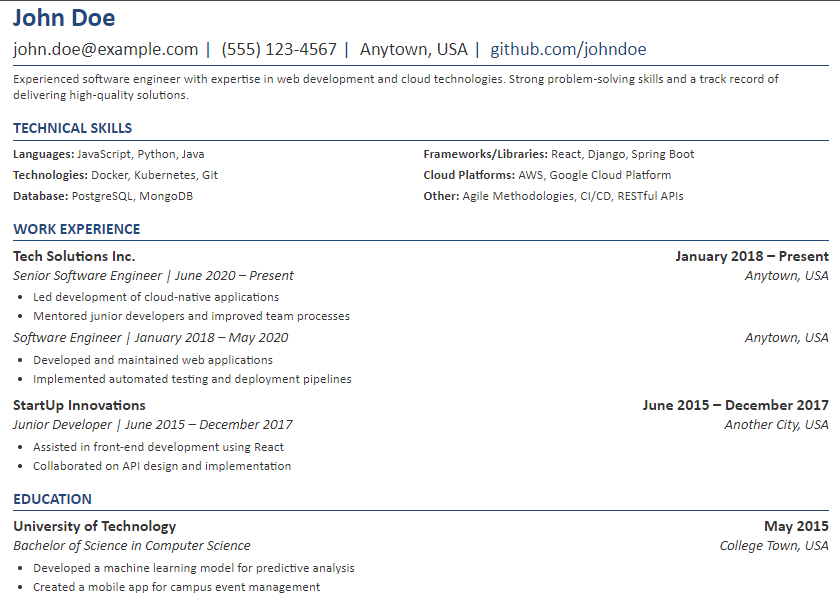
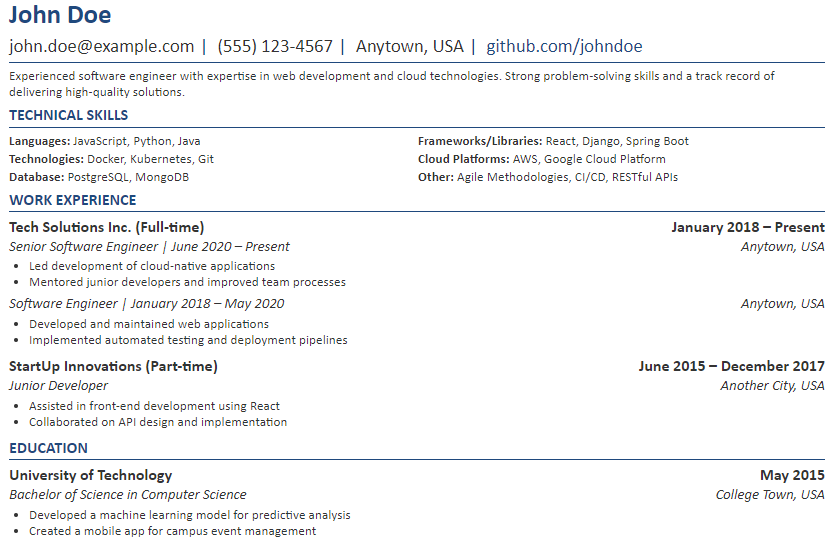
Adds employment type and spacing fixes

diff --git a/templates/resume_template.html b/templates/resume_template.html
@@ -27,7 +27,7 @@
             color: #1F497D;
             font-size: 12pt;
             border-bottom: 1px solid #1F497D;
-            margin: 15px 0 5px 0;
+            margin: 5px 0 5px 0;
             padding-bottom: 2px;
         }
         .contact-info {
@@ -40,7 +40,7 @@
             color: #1F497D;
         }
         .section {
-            margin-bottom: 10px;
+            margin-bottom: 5px;
         }
         .job {
             margin-bottom: 8px;
@@ -59,11 +59,11 @@
             font-size: 11pt;
         }
         ul {
-            margin: 5px 0;
+            margin: 3px 0 5px 0;
             padding-left: 20px;
         }
         li {
-            margin-bottom: 3px;
+            margin-bottom: 0px;
         }
         a {
             color: #1F497D;
@@ -72,7 +72,7 @@
         .skills-grid {
             display: grid;
             grid-template-columns: repeat(2, 1fr);
-            gap: 5px;
+            gap: 2px;
             margin-top: 5px;
         }
         .skills-category {
@@ -120,7 +120,7 @@
     {% for job in work_experience %}
     <div class="job">
         <div class="job-header">
-            <span>{{ job.company }}</span>
+            <span>{{ job.company }}{% if job.employment_type %} ({{ job.employment_type }}){% endif %}</span>
             <span>{{ job.start_date|format_date }} – {{ job.end_date|format_date }}</span>
         </div>
         {% for position in job.positions %}

diff --git a/scripts/generate_cover_letter.py b/scripts/generate_cover_letter.py
@@ -18,8 +18,17 @@ from src.models.cover_letter import CoverLetter
 from src.models.resume import PersonalInfo
 
 def load_yaml(file_path):
-    with open(file_path, 'r') as file:
-        return yaml.safe_load(file)
+    try:
+        with open(file_path, 'r') as file:
+            content = file.read().splitlines()
+            return yaml.safe_load('\n'.join(content))
+    except yaml.YAMLError as e:
+        print(f"Error parsing YAML file {file_path}: {e}")
+        if hasattr(e, 'problem_mark'):
+            mark = e.problem_mark
+            print(f"Error position: line {mark.line + 1}, column {mark.column + 1}")
+            print(f"Problematic line: {content[mark.line]}")
+        return None
 
 def get_most_recent_yaml(directory):
     yaml_files = list(Path(directory).glob('*.yaml'))
@@ -33,8 +42,8 @@ def main():
     parser.add_argument("-o", "--output", help="Path to the output HTML file")
     parser.add_argument("-t", "--template", default="templates/cover_letter_template.html", 
                         help="Path to the HTML template file")
-    parser.add_argument("-m", "--master", default="data/resumes/master.yaml",
-                        help="Path to the master resume YAML file")
+    parser.add_argument("-m", "--main", default="data/resumes/main.yaml",
+                        help="Path to the main resume YAML file")
     args = parser.parse_args()
 
     # If no input file is specified, use the most recent YAML file
@@ -48,9 +57,9 @@ def main():
         print(f"Error: Input file '{args.input}' does not exist.")
         return
 
-    # Ensure the master resume file exists
-    if not os.path.isfile(args.master):
-        print(f"Error: Master resume file '{args.master}' does not exist.")
+    # Ensure the main resume file exists
+    if not os.path.isfile(args.main):
+        print(f"Error: main resume file '{args.main}' does not exist.")
         return
 
     # Set default output path if not provided
@@ -66,9 +75,13 @@ def main():
         cover_letter_data = load_yaml(args.input)
         cover_letter = CoverLetter(**cover_letter_data)
         
-        # Load the personal info from the master resume YAML
-        master_data = load_yaml(args.master)
-        personal_info = PersonalInfo(**master_data['personal_info'])
+        # Load the personal info from the main resume YAML
+        main_data = load_yaml(args.main)
+        if main_data and 'personal_info' in main_data:
+            personal_info = PersonalInfo(**main_data['personal_info'])
+        else:
+            print(f"Error: Could not find 'personal_info' in {args.main}")
+            return
         
         # Set up Jinja2 environment
         env = Environment(loader=FileSystemLoader(os.path.dirname(args.template)))

diff --git a/src/models/resume.py b/src/models/resume.py
@@ -21,6 +21,8 @@ class WorkExperience(BaseModel):
     start_date: date
     end_date: Optional[date]
     location: str
+    employment_type: Optional[str] = None
+
 
 class Education(BaseModel):
     institution: str

diff --git a/README.md b/README.md
@@ -21,7 +21,7 @@ This Resume Management System is a Python-based tool designed to generate and ma
 resume-management-system/
 ├── data/
 │   ├── resumes/
-│   │   └── master.yaml
+│   │   └── main.yaml
 │   ├── letters/
 │   │   └── microsoft_software_engineer.yaml
 │   └── prompts/
@@ -65,13 +65,13 @@ resume-management-system/
    ```
 ## Usage
 
-1. Maintain your master resume data:
-   Copy `data/resumes/master.yaml.example` to `data/resumes/master.yaml` and keep it updated with your comprehensive personal information, work experience, education, and skills. This serves as your "source of truth" for all resume variations so make it quite extensive.
+1. Maintain your main resume data:
+   Copy `data/resumes/main.yaml.example` to `data/resumes/main.yaml` and keep it updated with your comprehensive personal information, work experience, education, and skills. This serves as your "source of truth" for all resume variations so make it quite extensive.
 
 2. Prepare job-specific resume data:
    a. Obtain the job description for the position you're applying to.
    b. Use an LLM (like ChatGPT) with the prompt found in `data/prompts/resume.txt`.
-   c. Provide the LLM with the job description and your `master.yaml` content.
+   c. Provide the LLM with the job description and your `main.yaml` content.
    d. The LLM will generate an optimized YAML for the specific job.
    e. Save this optimized YAML as `data/resumes/job_specific_resume.yaml`.
 
@@ -82,7 +82,7 @@ resume-management-system/
 
 4. Prepare job-specific cover letter data:
    a. Use an LLM with the prompt found in `data/prompts/cover_letter.txt`.
-   b. Provide the LLM with the job description and relevant details from your `master.yaml`.
+   b. Provide the LLM with the job description and relevant details from your `main.yaml`.
    c. The LLM will generate cover letter content.
    d. Save this content as `data/cover_letters/job_specific_cover_letter.yaml` (see example `data/cover_letters/cover_letter.yaml.example).
 
@@ -110,11 +110,11 @@ Note: The `data/prompts/` directory contains various prompts for different aspec
 
 ### Content
 
-Edit the YAML files in `data/resumes/` to update your resume and cover letter content. You can create multiple YAML files for different versions.
+Edit the YAML files in `data/resumes/` or `data/cover_letters/` to update your resume and cover letter content. You can create multiple YAML files for different versions.
 
 ### Templates
 
-Modify the `templates/*.html` files to change the layout and styling of your resume or cover letter. The template uses Jinja2 syntax for dynamic content insertion.
+Modify the html files in `templates/` to change the layout and styling of your resume or cover letter. The template uses Jinja2 syntax for dynamic content insertion.
 
 ### Python Code
 
